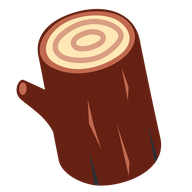
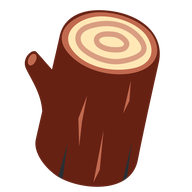
changed tilt to other direction

Changed region(s): [[0.0625, 0.0312, 0.8438, 1.0]]

diff --git a/agent_skills/manlog-repo/SKILL.md b/agent_skills/manlog-repo/SKILL.md
@@ -77,7 +77,7 @@ assets/js/code-blocks.js     copy + show-all buttons for code panels; tab bar fo
 assets/js/sidenotes.js       footnotes -> absolutely positioned .ml-sidenote in the right margin (>=1360px)
 archetypes/blog.md           front matter for `hugo new blog/...`
 resources/profile/           source portrait (photo.jpg); mounted into assets/profile, never delete as cache
-static/                      favicons (Twemoji 🪵 log, tilted 12° counterclockwise), site.webmanifest
+static/                      favicons (Twemoji 🪵 log, tilted 12° clockwise), site.webmanifest
 pagefind.yml                 index only blog/**/index.html; exclude_selectors for UI chrome, katex, mermaid
 .github/workflows/hugo.yml   build (HUGO_VERSION) + pagefind + deploy-pages on push to master
 ```

diff --git a/README.md b/README.md
@@ -181,7 +181,7 @@ flowchart LR
   (CC-BY 4.0). `static/favicon.svg` plus PNG/ICO fallbacks, referenced by PaperMod's
   `params.assets` and by `head-extras.html`; the header logo uses the same SVG. To change it,
   edit the SVG and regenerate the PNG/ICO files from it. The SVG includes a 12-degree
-  counterclockwise tilt, so the header, browser tabs, and app icons stay consistent.
+  clockwise tilt, so the header, browser tabs, and app icons stay consistent.
 
 ## Local development
 
